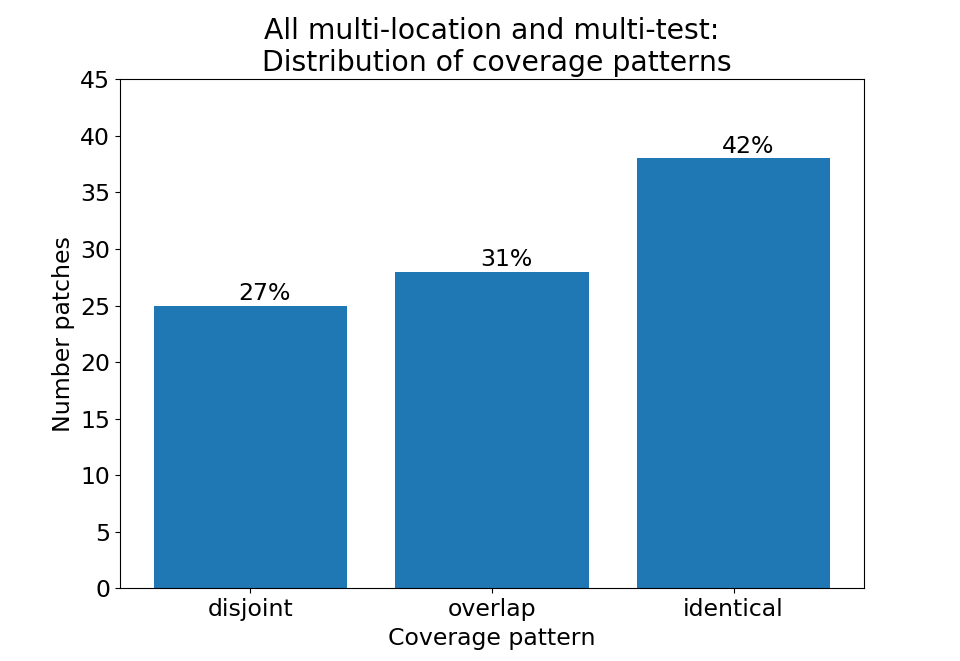
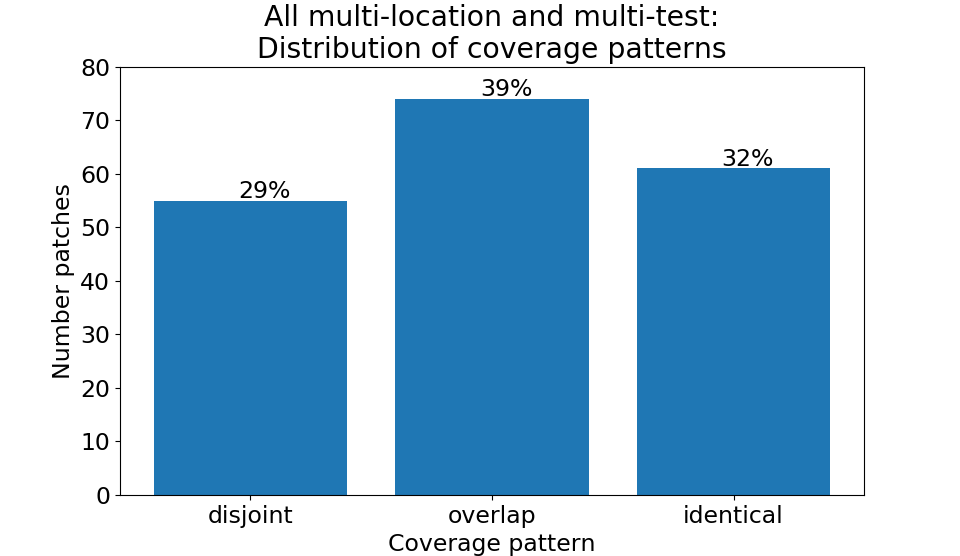
coverage section

diff --git a/paper/coverage.tex b/paper/coverage.tex
@@ -1,3 +1,5 @@
+% !TeX root = fse2020-multi-edit-bugs.tex
+
 \section{Fault localization} \label{secFL}
 
 %% what are the claims, what are we studying, why are we studying it
@@ -64,27 +66,59 @@ multiple buggy locations at once.
 Fundamentally, we ask whether multiple failing tests cover exactly the same
 patch locations, exactly disjoint patch locations, or some combination.
 
-\paragraph{Methodology}
+In addition, for purposes of fault localization, we want to know if we can detect 
+whether tests will cover disjoint or same fault locations given only the buggy code. 
+Thus, we also ask:
 
-Between both datasets, there are 92 total bugs that both require multi-location
+\rqorinsight{3}{Do tests that cover multiple faulty locations also cover multiple code 
+locations in general?}
+
+\subsection{Methodology}
+
+Between both datasets, there are 191 total bugs that both require multi-location
 patches and contain multiple failing tests. However, we were not able to obtain coverage 
-data for one of the bugs in Bears, leaving 91 total bugs: 59 in Defects4J, and 32 in
+data for one of the bugs in Bears, leaving 190 total bugs: 158 in Defects4J, and 32 in
 Bears. 
 For each of these bugs, we used JaCoCo\footnote{https://www.eclemma.org/jacoco/}
-to determine which of the patched locations were executed (at least once) by
-each failing test. Using this coverage data, we categorized each bug as follows:
+to determine which code locations in both the buggy and patched versions were executed
+(at least once) by each failing test.
+
+To answer RQ2, we used the patch locations that were executed by the tests to categorize 
+each bug into three \emph{coverage patterns}, as follows:
 \begin{itemize}
-\item \emph{disjoint} bugs are those for which no patch location is covered by all
+\item \emph{disjoint} bugs are those for which no line in the patch is covered by all
 failing tests.  Intuitively, these are the bugs for which the core SBFL
 assumption is violated.
-\item \emph{overlap} bugs are those for which some faulty locations are covered
+\item \emph{overlap} bugs are those for which some patch lines are covered
 by all failing tests, but some are only covered by a subset of the failing
 tests. These bugs also violate the core assumption of SBFL, albeit to a lesser
 extent.
 \item \emph{identical} bugs are those for which all tests cover the exact same
-  set of patch locations.
+  set of patch lines.
 \end{itemize}
 
+In our experiments, we classify bugs using coverage of the patch lines, as opposed to 
+coverage of 
+patch locations (where a patch location is considered covered if any line at that patch location 
+is 
+executed). For the purposes of fault localization, coverage of patch locations is more valuable 
+than coverage of patch lines, and we analyzed 66 Defects4J bugs\footnote{All the
+bugs in Defects4J version 1; we did not have enough time to do the analysis on bugs added in 
+Defects4J version 2.}  and all the Bears bugs, a total of 98 bugs, to see whether categorization 
+based on patch line 
+coverage matched categorization based on patch location coverage.
+
+To answer RQ3, we took all code locations executed by tests in the buggy version and
+calculated the percentage of lines that were executed by all failing tests. 
+A lower percentage indicates that the failing tests execute different portions of the buggy 
+code, whereas a higher percentage indicates that the failing tests all execute a similar
+set of code, corresponding to bugs we expect to be \emph{disjoint} and \emph{identical},
+respectively.
+
+After calculating the percentages, we split the bugs based on whether we categorized the bug 
+as \emph{disjoint}, \emph{identical}, or \emph{overlap} in the previous experiment.
+We qualitatively observed the degree to which the percentage corresponded to its coverage 
+pattern. \todo{Use a real statistical measure}
 
 \begin{figure}
 	\includegraphics[width=\linewidth]{img/coverage-all.png}
@@ -99,39 +133,46 @@ extent.
 		\includegraphics[width=\linewidth]{img/coverage-d4j.png}
 		\caption{Distribution of coverage patterns for Defects4J.}
 	\end{subfigure}
+
+\vspace{0.5cm}
+
 	\begin{subfigure}{\linewidth}
 		\includegraphics[width=\linewidth]{img/coverage-bears.png}
 		\caption{Distribution of coverage patterns for Bears.}
 	\end{subfigure}
-	\caption{Distribution of coverage patterns divided by dataset,
+	\caption{Distribution of coverage patterns by dataset,
           indicating significant differences between the multi-location bugs in
           Bears and Defects4J.}
 	\label{fig:coverage-datasets}
 \end{figure}
 
-\paragraph{Results}
+\subsection{Results}
+
+\subsubsection{Distribution of Coverage Patterns} \label{sec:cov_patterns}
+
 Figure~\ref{fig:coverage-all} shows results for the overall distribution,
-combining the bugs in both datasets. 27\%
-of the bugs were fully disjoint.  Thus, for a significant portion of multi-location bugs,
-the failing tests do not all execute any of the buggy code in common.  
-In addition, another 31\% were classified as \emph{overlap}: only some of the
+combining the bugs in both datasets. 29\%
+of the bugs were \emph{disjoint}.  Thus, for a significant portion of multi-location bugs,
+none of the faulty lines were executed by all failing tests.  
+In addition, another 39\% were classified as \emph{overlap}: only some of the
 buggy locations were executed by all failing tests. In all, over half of 
 the bugs that were both multi-location and multi-test contained edit locations that were 
 not executed by all failing test cases.
 
 Note, however, that the behavior varies considerably by dataset;
-Figure~\ref{fig:coverage-datasets} shows results.  Defects4J and 
-Bears have different distributions with respect to the 
-\emph{disjoint} and \emph{same} categories. In Defects4J, 36\% of bugs are \emph{disjoint} and 
-22\% are \emph{overlap}; in Bears, the proportions are 12\% and 47\%, respectively.
+Figure~\ref{fig:coverage-datasets} shows results. In Defects4J, the patterns all have similar 
+numbers of bugs, while in Bears, there are fewer \emph{disjoint} bugs and more 
+\emph{overlap} 
+bugs.
 We hypothesize that this may be due to differences in how the two  
-datasets were selected and constructed: Defects4J is a dataset of hand-isolated, and curated 
-bugs, while the bugs in Bears are scraped directly from the
-commits. The Defects4J dataset specifically enforces a requirement that the patches in the 
+datasets were selected and constructed:
+The Defects4J dataset specifically enforces a requirement that the patches in the 
 dataset be isolated, i.e., not containing any refactorings or new features, to improve the 
 usability of the dataset. The authors specifically chose patches that met this requirement, 
-and in some cases, isolated the bug themselves, manually~\cite{defects4j}. By contrast, the 
-only requirements for inclusion of bugs in Bears is that it must be reproducible, and that
+and in some cases, manually isolated the bug themselves~\cite{defects4j}. By contrast, the 
+bugs in 
+Bears are scraped directly from continuous integration systems, and the 
+only requirements for inclusion is that the bug must be reproducible and that
 the patch must be written by a human. In addition, Bears was designed to be evolvable 
 and relatively easily expanded as a dataset, which is at odds with manual inspection and isolation of 
 bugs~\cite{bears}.
@@ -139,10 +180,44 @@ Given that these two datasets were designed with different values and demonstrat
 different behavior, these findings highlight the importance of using diverse datasets in 
 evaluating program repair techniques.
 
+Out of the 98 bugs we checked, only seven bugs had differing coverage patterns when 
+classified based on coverage of patch lines vs. coverage of patch locations. All seven of these 
+bugs 
+were classified as \emph{overlap} when classified by line coverage, but were classified as 
+\emph{identical} when classifying by patch coverage, indicating that all the failing tests were 
+executing different paths within the same patch locations. \todo{Is this discussion confusingly 
+worded? Because patch locations refer to the patch chunk, made up of one or more lines of 
+code.}
+
 Overall, SBFL assumes that faulty locations are executed more often by identifying 
 or failing test cases and is not designed to find many of these multi-location
 faults. Our results suggest that off-the-shelf SBFL techniques are not
-well-suited to guiding APR techniques that conform to the the dominant paradigm to repairing
+well-suited to guiding APR techniques that conform to the dominant paradigm to repairing
 these types of multi-location, multi-test bugs.
 
+\begin{figure}
+	\includegraphics[width=.9\linewidth,left]{img/coverage-buggy.png}
+	\caption{Boxplots representing the distribution of bugs based on it's percentage of lines 
+	executed 
+	by all failing tests. A bug scored at 100\% indicates that all failing tests executed the same 
+	lines of 
+	code, whereas a bug scored at 0\% indicates failing tests all executed different lines of 
+	code. 
+	These boxplots are split by coverage pattern, as categorized before.}
+	\label{fig:coverage-buggy}
+\end{figure}
 
+\subsubsection{Identification of Coverage Patterns} \todo{There's a more accurate word 
+here 
+than "identification"}
+
+Our results are shown in Figure \ref{fig:coverage-buggy}. Here, we see three distributions, 
+separated by coverage pattern, and plotted based on the percentage of lines executed by all 
+failing tests. We can see some qualitative differences between the three distributions. In 
+particular, \emph{identical} bugs are more likely to have failing tests that execute the same lines 
+of code, as we might expect. However, in practice, it would be difficult to determine the 
+coverage pattern of a bug based on the coverage of failing tests alone, as all the distributions 
+range from 5\% to 100\% (note that a bug categorized as disjoint can be scored 100\%, as the 
+patch can introduce if statements that break the control flow and cause certain patch locations 
+not to be executed). Thus, more work may be needed to identify the different coverage patterns 
+from the buggy program.

diff --git a/paper/fse2020-multi-edit-bugs.tex b/paper/fse2020-multi-edit-bugs.tex
@@ -13,6 +13,7 @@
 \usepackage{fancybox}
 \usepackage{enumitem}
 \usepackage{xcolor}
+\usepackage[export]{adjustbox}
 \def\BibTeX{{\rm B\kern-.05em{\sc i\kern-.025em b}\kern-.08em
     T\kern-.1667em\lower.7ex\hbox{E}\kern-.125em X}}
 
